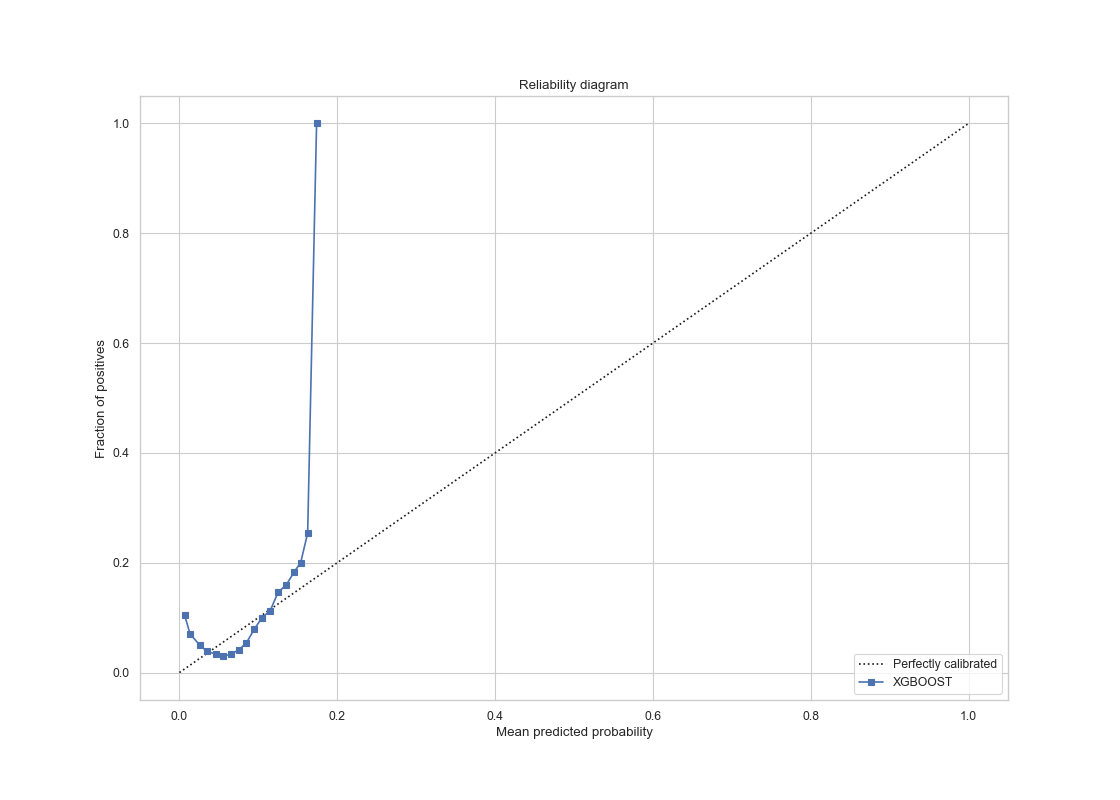
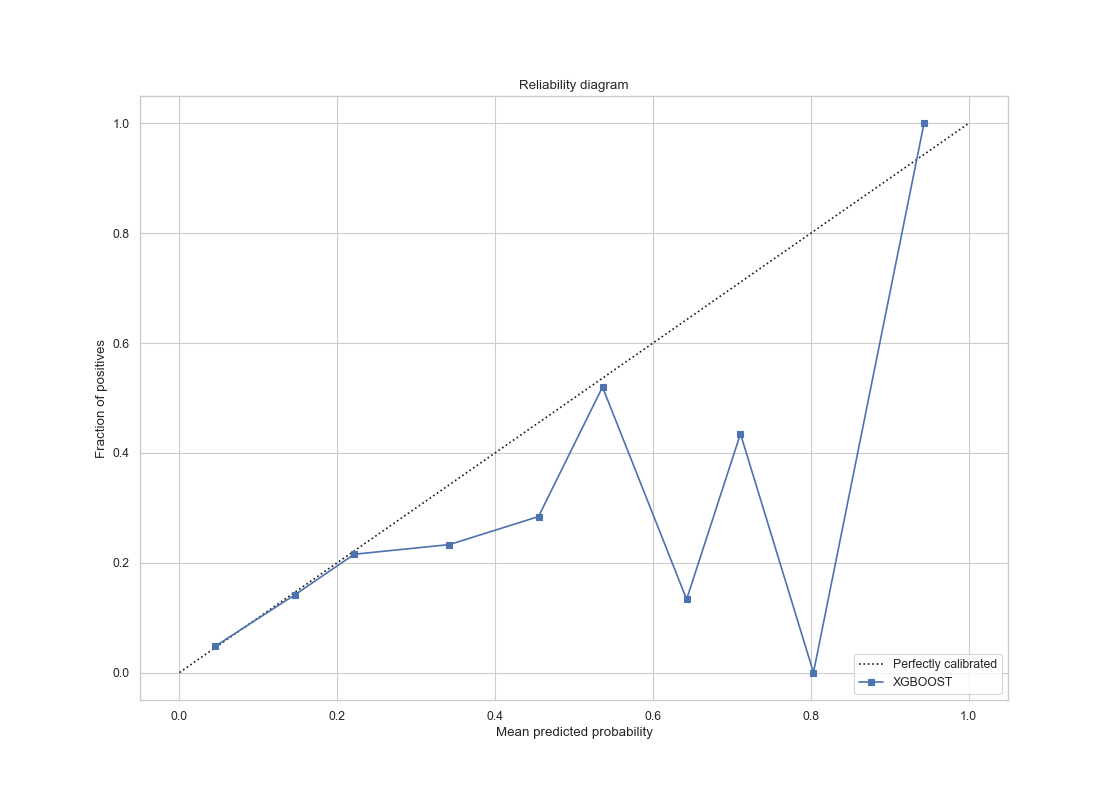
changes

diff --git a/_posts/2021-11-30-milestone-2.md b/_posts/2021-11-30-milestone-2.md
@@ -119,6 +119,9 @@ Below are the plots for each model.
 - Receiver Operating Characteristic (ROC) curves and the AUC metric of the ROC curve: The ROC curve value is 0.69
 <img src = "/assets/images/milestone2/q31_logR_ROC_distance.png">
 
+- Reliability Curve
+<img src = "/assets/images/milestone2/31_logR_RD_Distance.png">
+
 ### Q3.3
 
 <div class="message">
@@ -138,19 +141,45 @@ Include these four figures (each with four curves) in your blog post. In a few s
 
 **Model: with angle only**
 
+- The cumulative proportion of goals (not shots) as a function of the shot probability model percentile.
+
 <img src = "/assets/images/milestone2/q32_logR_CP.png">
+
+- The goal rate (#goals / (#no_goals + #goals)) as a function of the shot probability model percentile.
+
 <img src = "/assets/images/milestone2/q32_logR_GR.png">
+
+- Receiver Operating Characteristic (ROC) curves and the AUC metric of the ROC curve: The ROC curve value is 0.5
+
 <img src = "/assets/images/milestone2/q32_logR_ROC_angle.png">
 
+- Reliability Curve: with angle only 
+<img src = "/assets/images/milestone2/32_logR_RD_Angle.png">
+
 **Model: with angle and distance**
+
+- The cumulative proportion of goals (not shots) as a function of the shot probability model percentile.
+
 <img src = "/assets/images/milestone2/q33_logR_CP.png">
+
+- The goal rate (#goals / (#no_goals + #goals)) as a function of the shot probability model percentile.
+
 <img src = "/assets/images/milestone2/q33_logR_GR.png">
+
+- Receiver Operating Characteristic (ROC) curves and the AUC metric of the ROC curve: The ROC curve value is 0.68
+
 <img src = "/assets/images/milestone2/q33_logR_ROC_angle_distance.png">
+
+- Reliability Curve: with distance and angle only 
+<img src = "/assets/images/milestone2/33_logR_RD_angle_distance.png">
 
 **Model: random**
 <img src = "/assets/images/milestone2/q34_Random_CP.png">
 <img src = "/assets/images/milestone2/q34_Random_GR.png">
 <img src = "/assets/images/milestone2/q34_Random.png">
+
+- Reliability Curve: with distance and angle only 
+<img src = "/assets/images/milestone2/34_Random.png">
 
 **Summary of all four models in one plot**
 
@@ -266,6 +295,8 @@ The corresponding curves for XGboost model are displayed below.
 
 <img src="/assets/images/milestone2/q51_Xgboost_ROC_distance_angle.png">
 
+<img src="/assets/images/milestone2/51_XGboost_RD_angle_distance.png">
+
 The ROC curve has AUC value of 0.71, which is better than the baseline logistic model, but not by much.
 
 The [link to the model](https://www.comet.ml/binulal/milestone-2/8b7c8a744b18434f9a42bc454573f40d)
@@ -294,6 +325,10 @@ The corresponding curves for XGboost model with all features are displayed below
 <img src="/assets/images/milestone2/q52_XGboost_GR.png">
 
 <img src="/assets/images/milestone2/q52_Xgboost_ROC.png">
+The ROC curve has AUC value of 0.76, a 0.05 increase from previous model. Not a significant increase but shows the effectiveness of hyperparameter search and additional feature sets.
+
+<img src="/assets/images/milestone2/52_XGboost_RD.png">
+The calibration is much smoother compared to before, and it is almost perfectly calibrated in for mean probabilities less than 0.6. For probabilities larger than 0.6, it is much smoother than the previous XGboost model, suggesting hyperparameter search and additional features has improved the prediction in a significant manner.
 
 The [link to the comet.ml](https://www.comet.ml/binulal/milestone-2/8d75cbfc7cf9446f90560acf7c51ea53)
 
@@ -308,19 +343,30 @@ We have used various feature selection methods such as correlation matrix, XGboo
 The selected features are the top 10 most important features according to the picture listed below:
 <img src="/assets/images/milestone2/q53_feature_1.png">
 
+For reference, the correlation matrix is also included:
+<img src="/assets/images/milestone2/q53_heat.png">
+
 The SHAP value importance are as follows:
 <img src="/assets/images/milestone2/q53_shap1.png">
 <img src="/assets/images/milestone2/q53_shap2.png">
 <img src="/assets/images/milestone2/q53_shap3.png">
 
 The result is the following:
-<img src="/assets/images/milestone2/q53_score.png">
-Compared to the full model, there is a slight decrease of recall value and f1-score for the class 1 predictions. However, the precision has not dropped and remains at 0.59 for class 1 predictions.
+<img src="/assets/images/milestone2/q53_xgb_score.png">
+Compared to the full model, the precision, recall and f1-score are exactly the same for class 0. For class 1 however, there is a slight decrease of recall (0.03 to 0.01) value and f1-score (from 0.05 for class 1 to 0.03). However, the precision has not dropped and remains at 0.59 for class 1 predictions.
+The sacrifice of performance is 
 
 The corresponding curves for XGboost model with selected features are displayed below:
 <img src="/assets/images/milestone2/q53_Xgboost_ROC.png">
+
+The AUC value is 0.76, which shows no deteoriration fromo the full model, which suggests that our predictive power of the slimmed down model is as good as the full model.
+
 <img src="/assets/images/milestone2/q53_XGboost_tuned_CP.png">
 <img src="/assets/images/milestone2/q53_XGboost_tuned_GR.png">
+
+
+<img src="/assets/images/milestone2/53_XGboost_tuned_RD.png">
+The calibration curve is almost perfectly calibrated for proabilities less than 0.45, which is a slight deterioration from the full model, but still significantly better than the baseline XGboost model.
 
 The [link to the comet.ml](https://www.comet.ml/binulal/milestone-2/2e98573c75804e6998136ba84d928b79)
 
@@ -354,8 +400,14 @@ Below are the plots for the logistic regression model with the same four types o
 | ![alt](/assets/images/milestone2/q61_logR_ROC.png) | ![alt](/assets/images/milestone2/q61_logR_RD.png) |
 
 For the **svc model**, a **grid search** cross validation strategy was used to select the *C, kernel* parameters. The data is first standardized in the pipeline, then PCA (with number of components = 85) is applied then finally the svc model. The resulting best parameters were C=10, kernel=’rbf’.
+![](/assets/images/milestone2/q62_svc_ROC.png) 
+
 
 For the **random forest model**, The data is directly applied to the random forest model with a predefined parameter. The random forest model has an **AUC of 0.76**, highest among all models.
+
+- | - 
+| ![alt](/assets/images/milestone2/q63_rf_GR.png) | ![alt](/assets/images/milestone2/q63_rf_CP.png) |
+| ![alt](/assets/images/milestone2/q63_rf_ROC.png) | ![alt](/assets/images/milestone2/q63_rf_RD.png) |
 
 For the **adaboost model**, a grid search cross validation strategy was used to select the *n_estimators*, *learning_rate* parameters. The data is directly applied to the adaboost model. The *resulting* best parameters were n_estimators=10, learning_rate=0.01. The adaboost model has an **AUC of 0.68**.
 
